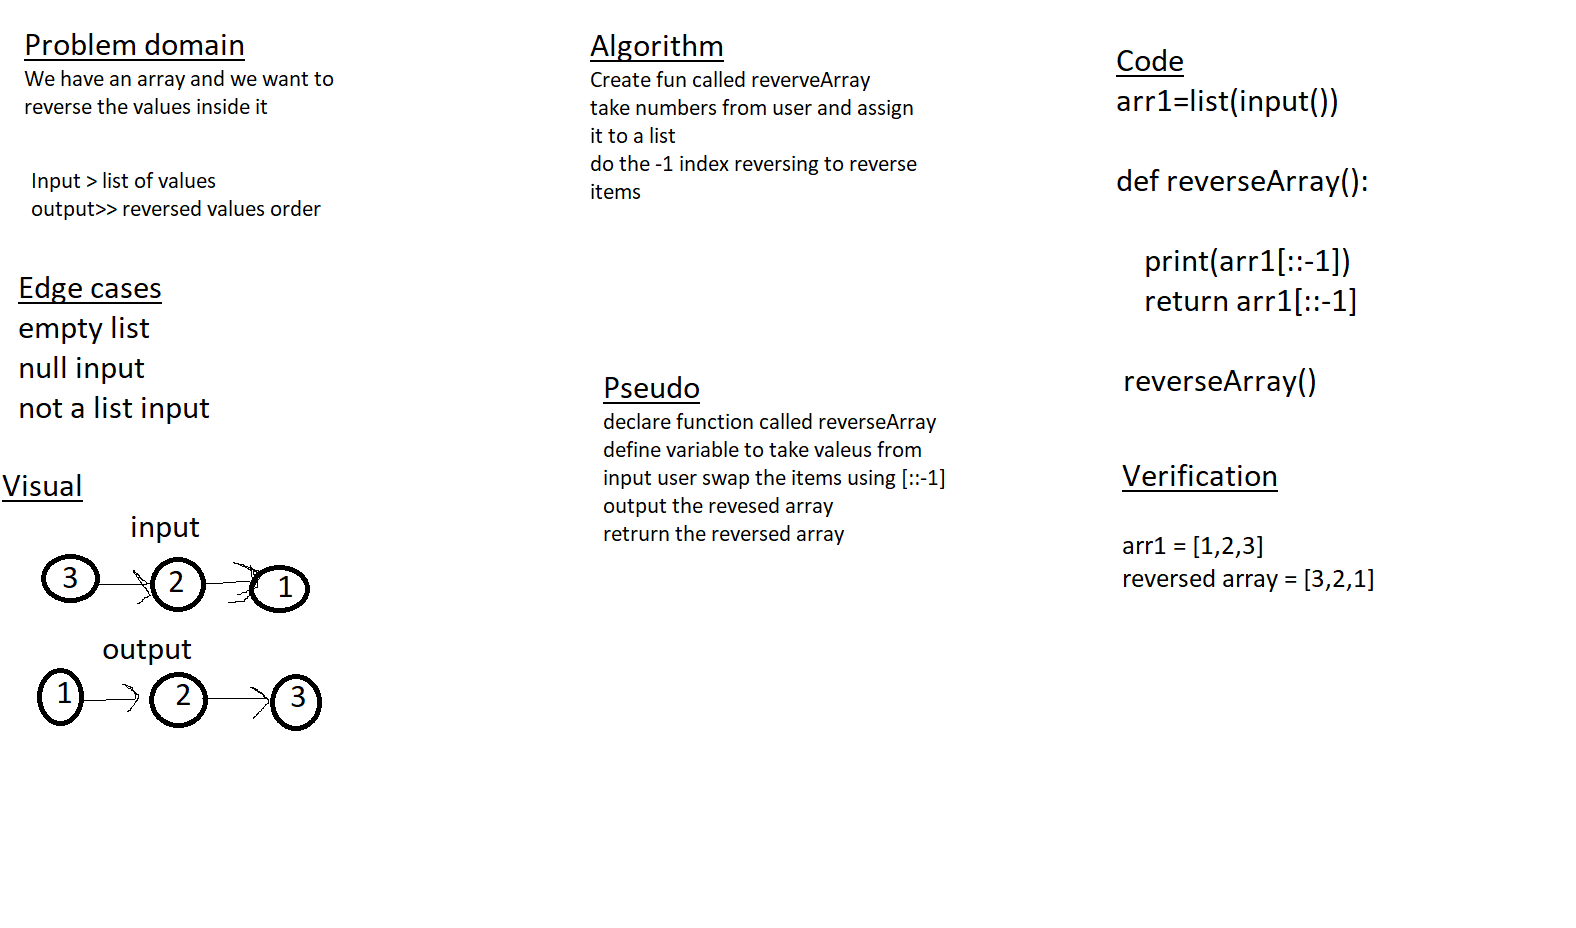
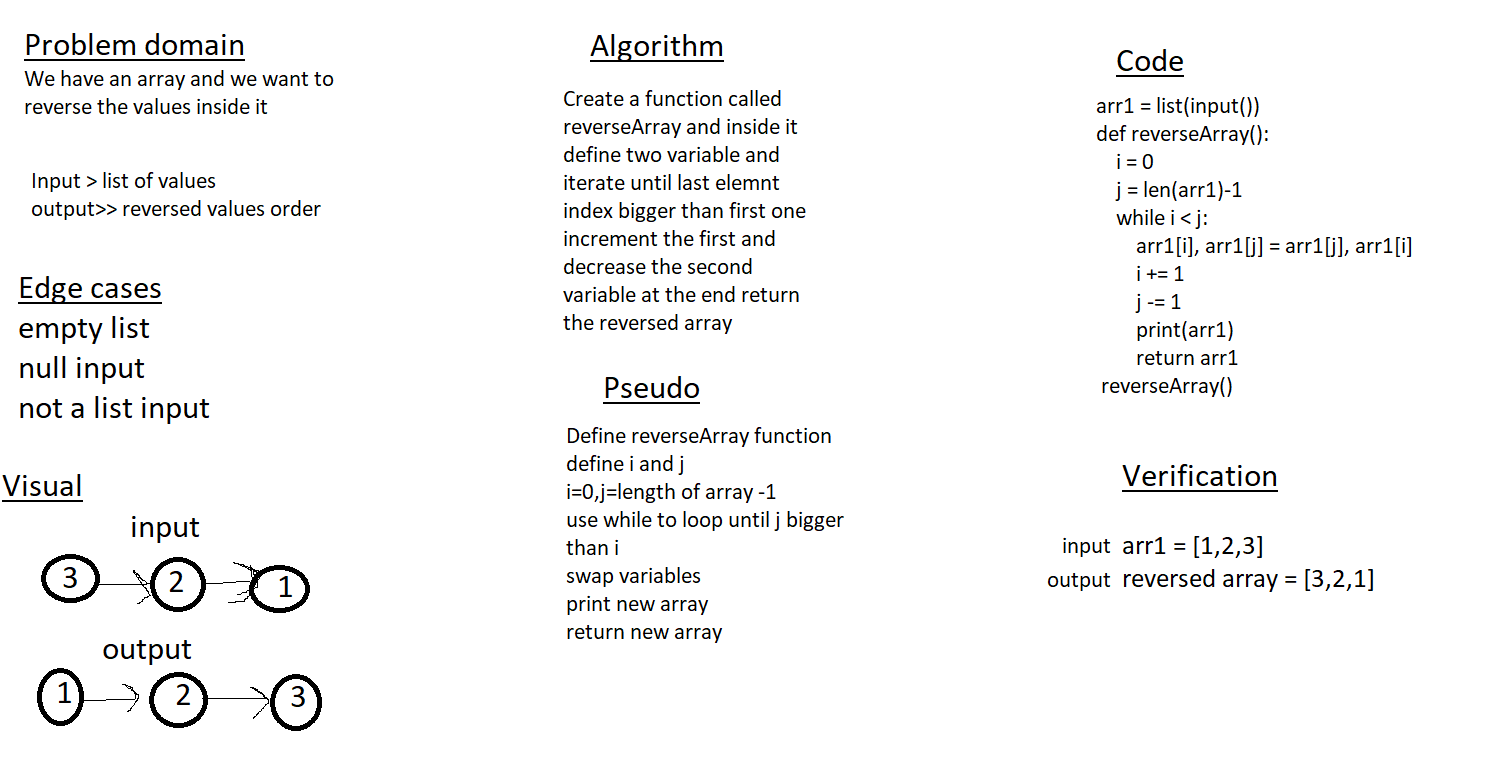
edit whiteboard

diff --git a/python/code_challenges/array-reverse/array-reverse.py b/python/code_challenges/array-reverse/array-reverse.py
@@ -1,15 +1,22 @@
-arr1=list(input())
+arr1 = list(input())
+
 
 def reverseArray():
-
     """
     This function is to reverse any elements
     """
+    i = 0
 
-    print(arr1[::-1])
-    return arr1[::-1]
+    j = len(arr1)-1
+
+    while i < j:
+        arr1[i], arr1[j] = arr1[j], arr1[i]
+        i += 1
+        j -= 1
+
+        print(arr1)
+        return arr1
 
 
-if __name__=="__main__":
+if __name__ == "__main__":
     reverseArray()
-
